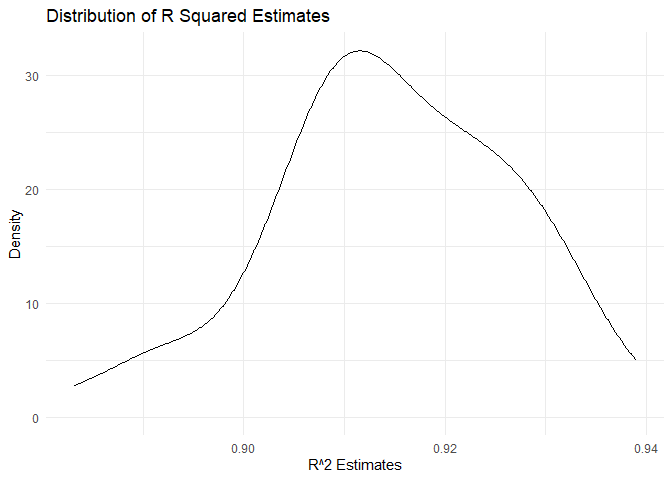
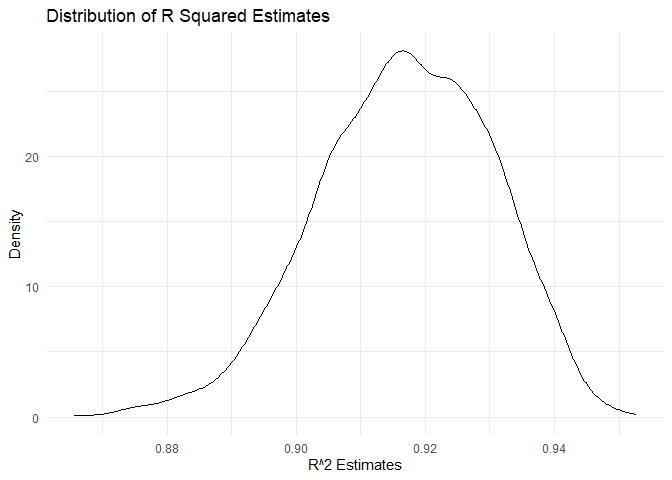
adding answer for problem 3, creating some plots

diff --git a/p8105_hw6_yl5508.md b/p8105_hw6_yl5508.md
@@ -7,6 +7,8 @@ It’s a proj for HW6 about LINEAR MODELS.
 
 ``` r
 library(tidyverse)
+library(purrr)
+library(modelr)
 set.seed(1)
 ```
 
@@ -53,7 +55,7 @@ weather_df =
 ``` r
 temp_boot =
   weather_df |>
-  modelr::bootstrap(n = 50) |>
+  modelr::bootstrap(n = 5000) |>
   mutate(
     models = map(strap, \(df) lm(tmax ~ tmin + prcp, data = df)),
     results = map(models, broom::tidy),
@@ -90,7 +92,7 @@ temp_boot |>
   theme_minimal()
 ```
 
-    ## Warning: Removed 32 rows containing non-finite values (`stat_density()`).
+    ## Warning: Removed 3361 rows containing non-finite values (`stat_density()`).
 
 ![](p8105_hw6_yl5508_files/figure-gfm/unnamed-chunk-3-1.png)<!-- -->
 
@@ -109,6 +111,182 @@ temp_ci |>
 
 | ci_lower_r2 | ci_upper_r2 | ci_lower_log | ci_upper_log |
 |------------:|------------:|-------------:|-------------:|
-|        0.89 |        0.93 |        -9.03 |         -4.8 |
+|        0.89 |        0.94 |        -8.98 |         -4.6 |
 
 ## Problem 3
+
+``` r
+bw_clean =
+  read_csv("./data/birthweight.csv") |>
+  janitor::clean_names() |>
+  mutate(
+    babysex = case_when(
+      babysex == 1 ~ "male",
+      babysex == 2~ "female"),
+    frace = case_when(
+      frace == 1 ~ "White",
+      frace == 2 ~ "Black",
+      frace == 3 ~ "Asian",
+      frace == 4 ~ "Puerto Rican",
+      frace == 8 ~ "Other",
+      frace == 9 ~ "Unknown"),
+    malform = case_when(
+      malform == 0 ~ 'absent',
+      malform == 1 ~ 'present'),
+    mrace = case_when(
+      mrace == 1 ~ "White",
+      mrace == 2 ~ "Black",
+      mrace == 3 ~ "Asian",
+      mrace == 4 ~ "Puerto Rican",
+      mrace == 8 ~ "Other")
+  ) |>
+  select(-pnumlbw, -pnumsga)
+```
+
+    ## Rows: 4342 Columns: 20
+    ## ── Column specification ────────────────────────────────────────────────────────
+    ## Delimiter: ","
+    ## dbl (20): babysex, bhead, blength, bwt, delwt, fincome, frace, gaweeks, malf...
+    ## 
+    ## ℹ Use `spec()` to retrieve the full column specification for this data.
+    ## ℹ Specify the column types or set `show_col_types = FALSE` to quiet this message.
+
+``` r
+sum(is.na(bw_clean))
+```
+
+    ## [1] 0
+
+``` r
+model_bw = lm(bwt ~ ., data = bw_clean) |>
+  step(direction = "both", trace = FALSE)
+summary(model_bw) |>
+  broom::tidy() |>
+  knitr::kable(digits = 3)
+```
+
+| term              |  estimate | std.error | statistic | p.value |
+|:------------------|----------:|----------:|----------:|--------:|
+| (Intercept)       | -6145.151 |   141.950 |   -43.291 |   0.000 |
+| babysexmale       |   -28.558 |     8.455 |    -3.378 |   0.001 |
+| bhead             |   130.777 |     3.447 |    37.944 |   0.000 |
+| blength           |    74.947 |     2.019 |    37.120 |   0.000 |
+| delwt             |     4.107 |     0.392 |    10.475 |   0.000 |
+| fincome           |     0.318 |     0.175 |     1.820 |   0.069 |
+| gaweeks           |    11.592 |     1.462 |     7.929 |   0.000 |
+| mheight           |     6.594 |     1.785 |     3.694 |   0.000 |
+| mraceBlack        |   -63.906 |    42.366 |    -1.508 |   0.132 |
+| mracePuerto Rican |   -25.791 |    45.350 |    -0.569 |   0.570 |
+| mraceWhite        |    74.887 |    42.315 |     1.770 |   0.077 |
+| parity            |    96.305 |    40.336 |     2.388 |   0.017 |
+| ppwt              |    -2.676 |     0.427 |    -6.261 |   0.000 |
+| smoken            |    -4.843 |     0.586 |    -8.271 |   0.000 |
+
+``` r
+res = bw_clean |>
+  modelr::add_predictions(model_bw) |>
+  modelr::add_residuals(model_bw)
+
+res |>
+  ggplot(aes(x = pred, y = resid)) +
+  geom_point(alpha = .5) +
+  stat_smooth(method = "lm") +
+  labs(x = "Predictions", y = "Residuals", title = "Residuals against Predictions") +
+  theme_minimal()
+```
+
+    ## `geom_smooth()` using formula = 'y ~ x'
+
+![](p8105_hw6_yl5508_files/figure-gfm/unnamed-chunk-6-1.png)<!-- -->
+
+``` r
+model_com_1 = lm(bwt ~ blength + gaweeks, data = bw_clean)
+summary(model_com_1)
+```
+
+    ## 
+    ## Call:
+    ## lm(formula = bwt ~ blength + gaweeks, data = bw_clean)
+    ## 
+    ## Residuals:
+    ##     Min      1Q  Median      3Q     Max 
+    ## -1709.6  -215.4   -11.4   208.2  4188.8 
+    ## 
+    ## Coefficients:
+    ##              Estimate Std. Error t value Pr(>|t|)    
+    ## (Intercept) -4347.667     97.958  -44.38   <2e-16 ***
+    ## blength       128.556      1.990   64.60   <2e-16 ***
+    ## gaweeks        27.047      1.718   15.74   <2e-16 ***
+    ## ---
+    ## Signif. codes:  0 '***' 0.001 '**' 0.01 '*' 0.05 '.' 0.1 ' ' 1
+    ## 
+    ## Residual standard error: 333.2 on 4339 degrees of freedom
+    ## Multiple R-squared:  0.5769, Adjusted R-squared:  0.5767 
+    ## F-statistic:  2958 on 2 and 4339 DF,  p-value: < 2.2e-16
+
+``` r
+model_com_2 = lm(bwt ~ bhead * blength * babysex, data = bw_clean)
+summary(model_com_2)
+```
+
+    ## 
+    ## Call:
+    ## lm(formula = bwt ~ bhead * blength * babysex, data = bw_clean)
+    ## 
+    ## Residuals:
+    ##      Min       1Q   Median       3Q      Max 
+    ## -1132.99  -190.42   -10.33   178.63  2617.96 
+    ## 
+    ## Coefficients:
+    ##                             Estimate Std. Error t value Pr(>|t|)    
+    ## (Intercept)                -801.9487  1102.3077  -0.728 0.466948    
+    ## bhead                       -16.5975    34.0916  -0.487 0.626388    
+    ## blength                     -21.6460    23.3720  -0.926 0.354421    
+    ## babysexmale               -6374.8684  1677.7669  -3.800 0.000147 ***
+    ## bhead:blength                 3.3244     0.7126   4.666 3.17e-06 ***
+    ## bhead:babysexmale           198.3932    51.0917   3.883 0.000105 ***
+    ## blength:babysexmale         123.7729    35.1185   3.524 0.000429 ***
+    ## bhead:blength:babysexmale    -3.8781     1.0566  -3.670 0.000245 ***
+    ## ---
+    ## Signif. codes:  0 '***' 0.001 '**' 0.01 '*' 0.05 '.' 0.1 ' ' 1
+    ## 
+    ## Residual standard error: 287.7 on 4334 degrees of freedom
+    ## Multiple R-squared:  0.6849, Adjusted R-squared:  0.6844 
+    ## F-statistic:  1346 on 7 and 4334 DF,  p-value: < 2.2e-16
+
+``` r
+cv_bw =
+  modelr::crossv_mc(bw_clean, 100)
+
+cv_bw_rmse =
+  cv_bw |>
+  mutate(
+    model_cv_full = map(cv_bw$train, 
+                         \(df) lm(bwt ~ ., data = (df)) |>
+                           step(direction = "both", trace = FALSE)),
+    model_sample1 = map(cv_bw$train, 
+                         \(df) lm(bwt ~ blength + gaweeks, data = (df))),
+    model_sample2 = map(cv_bw$train, 
+                         \(df) lm(bwt ~ bhead * blength * babysex, data = (df)))
+  ) |>
+  mutate(
+    errs_cv_full = purrr::map2_dbl(model_cv_full, cv_bw$test, rmse),
+    errs_sample1 = purrr::map2_dbl(model_sample1, cv_bw$test, rmse),
+    errs_sample2 = purrr::map2_dbl(model_sample2, cv_bw$test, rmse)
+  )
+
+cv_bw_rmse |>
+  select(model_gen = errs_cv_full,
+         model_sample1 = errs_sample1,
+         model_sample_2 = errs_sample2) |>
+  pivot_longer(everything(), 
+               names_to = "models",
+               values_to = "rmse") |>
+  mutate(model = factor(models, levels = c("model_gen", "model_sample1", "model_sample_2"))) |>
+  ggplot(aes(x = model, y = rmse)) +
+  geom_violin() +
+  labs(x = "Models", y = "rmse", title = "Cross-Validated Prediction Error") +
+  theme_minimal()
+```
+
+![](p8105_hw6_yl5508_files/figure-gfm/unnamed-chunk-8-1.png)<!-- -->
